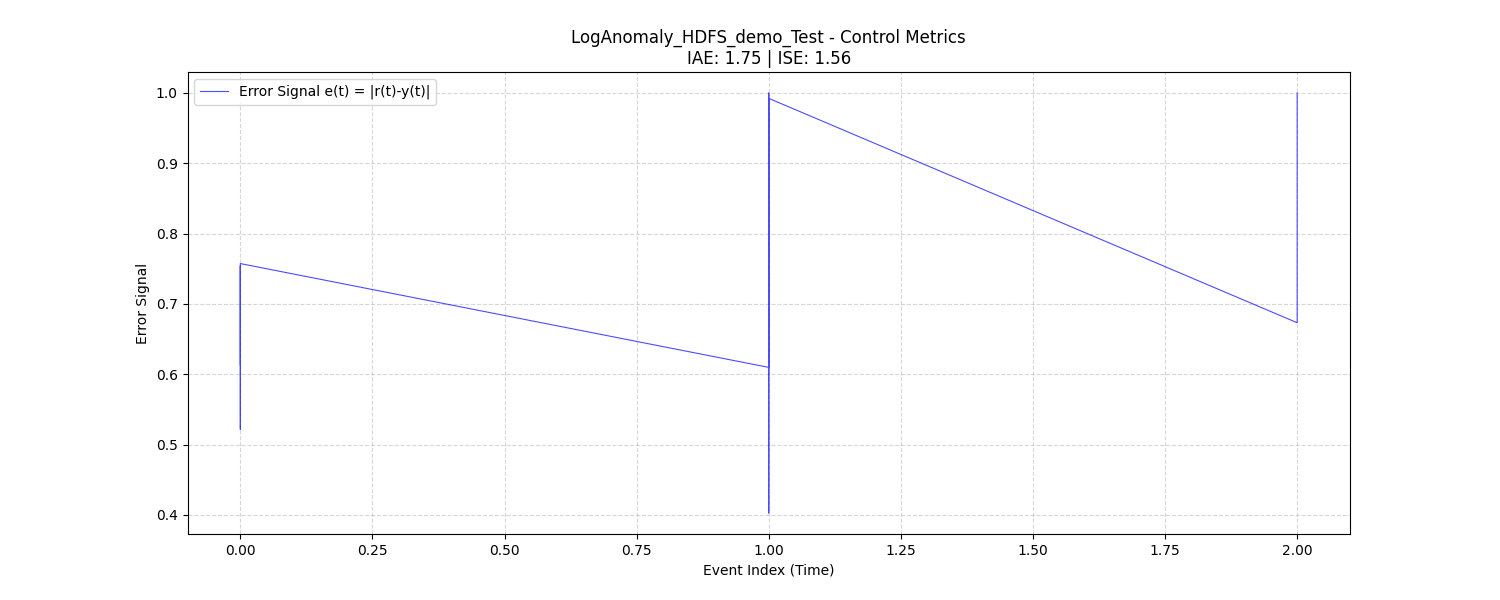
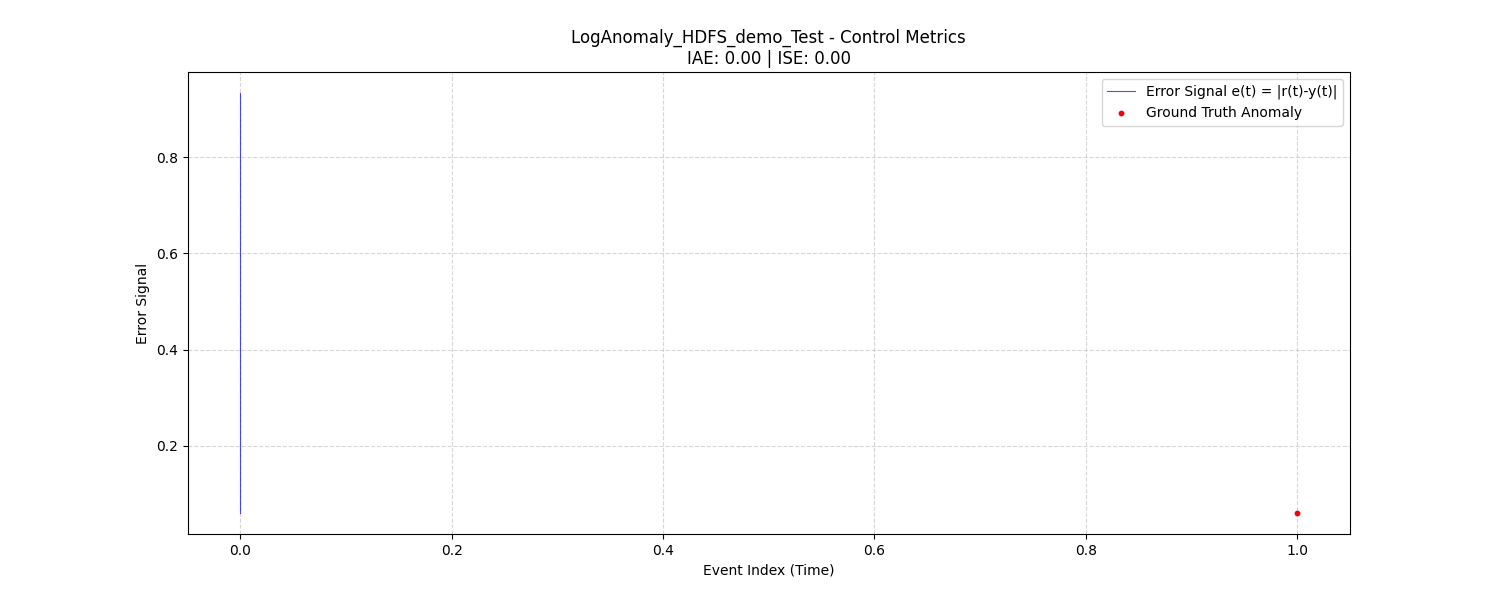
もっかい修正

diff --git a/pipeline/4_setup_loganomaly_embeddings.py b/pipeline/4_setup_loganomaly_embeddings.py
@@ -78,7 +78,7 @@ def generate_embeddings(mode='full'):
     int_id_to_tokens = {}
     
     for _, row in merged.iterrows():
-        int_id = str(row['IntId']) # Use string key for JSON
+        int_id = str(int(row['IntId']) - 1) # Shift to 0-based index
         template = row['EventTemplate']
         tokens = tokenize_template(template)
         sentences.append(tokens)
@@ -178,9 +178,8 @@ def generate_embeddings(mode='full'):
     # event2vec['0'] = [0.0] * vector_dim 
     
     for int_id, tokens in int_id_to_tokens.items():
-        # Shift to 0-based index to match model input (which has n-1 applied)
-        # Original IntId (1..N) -> (0..N-1)
-        int_id_0 = str(int(int_id) - 1)
+        # int_id is already 0-based
+        int_id_0 = int_id
         
         if not tokens:
             vec = np.zeros(vector_dim)
